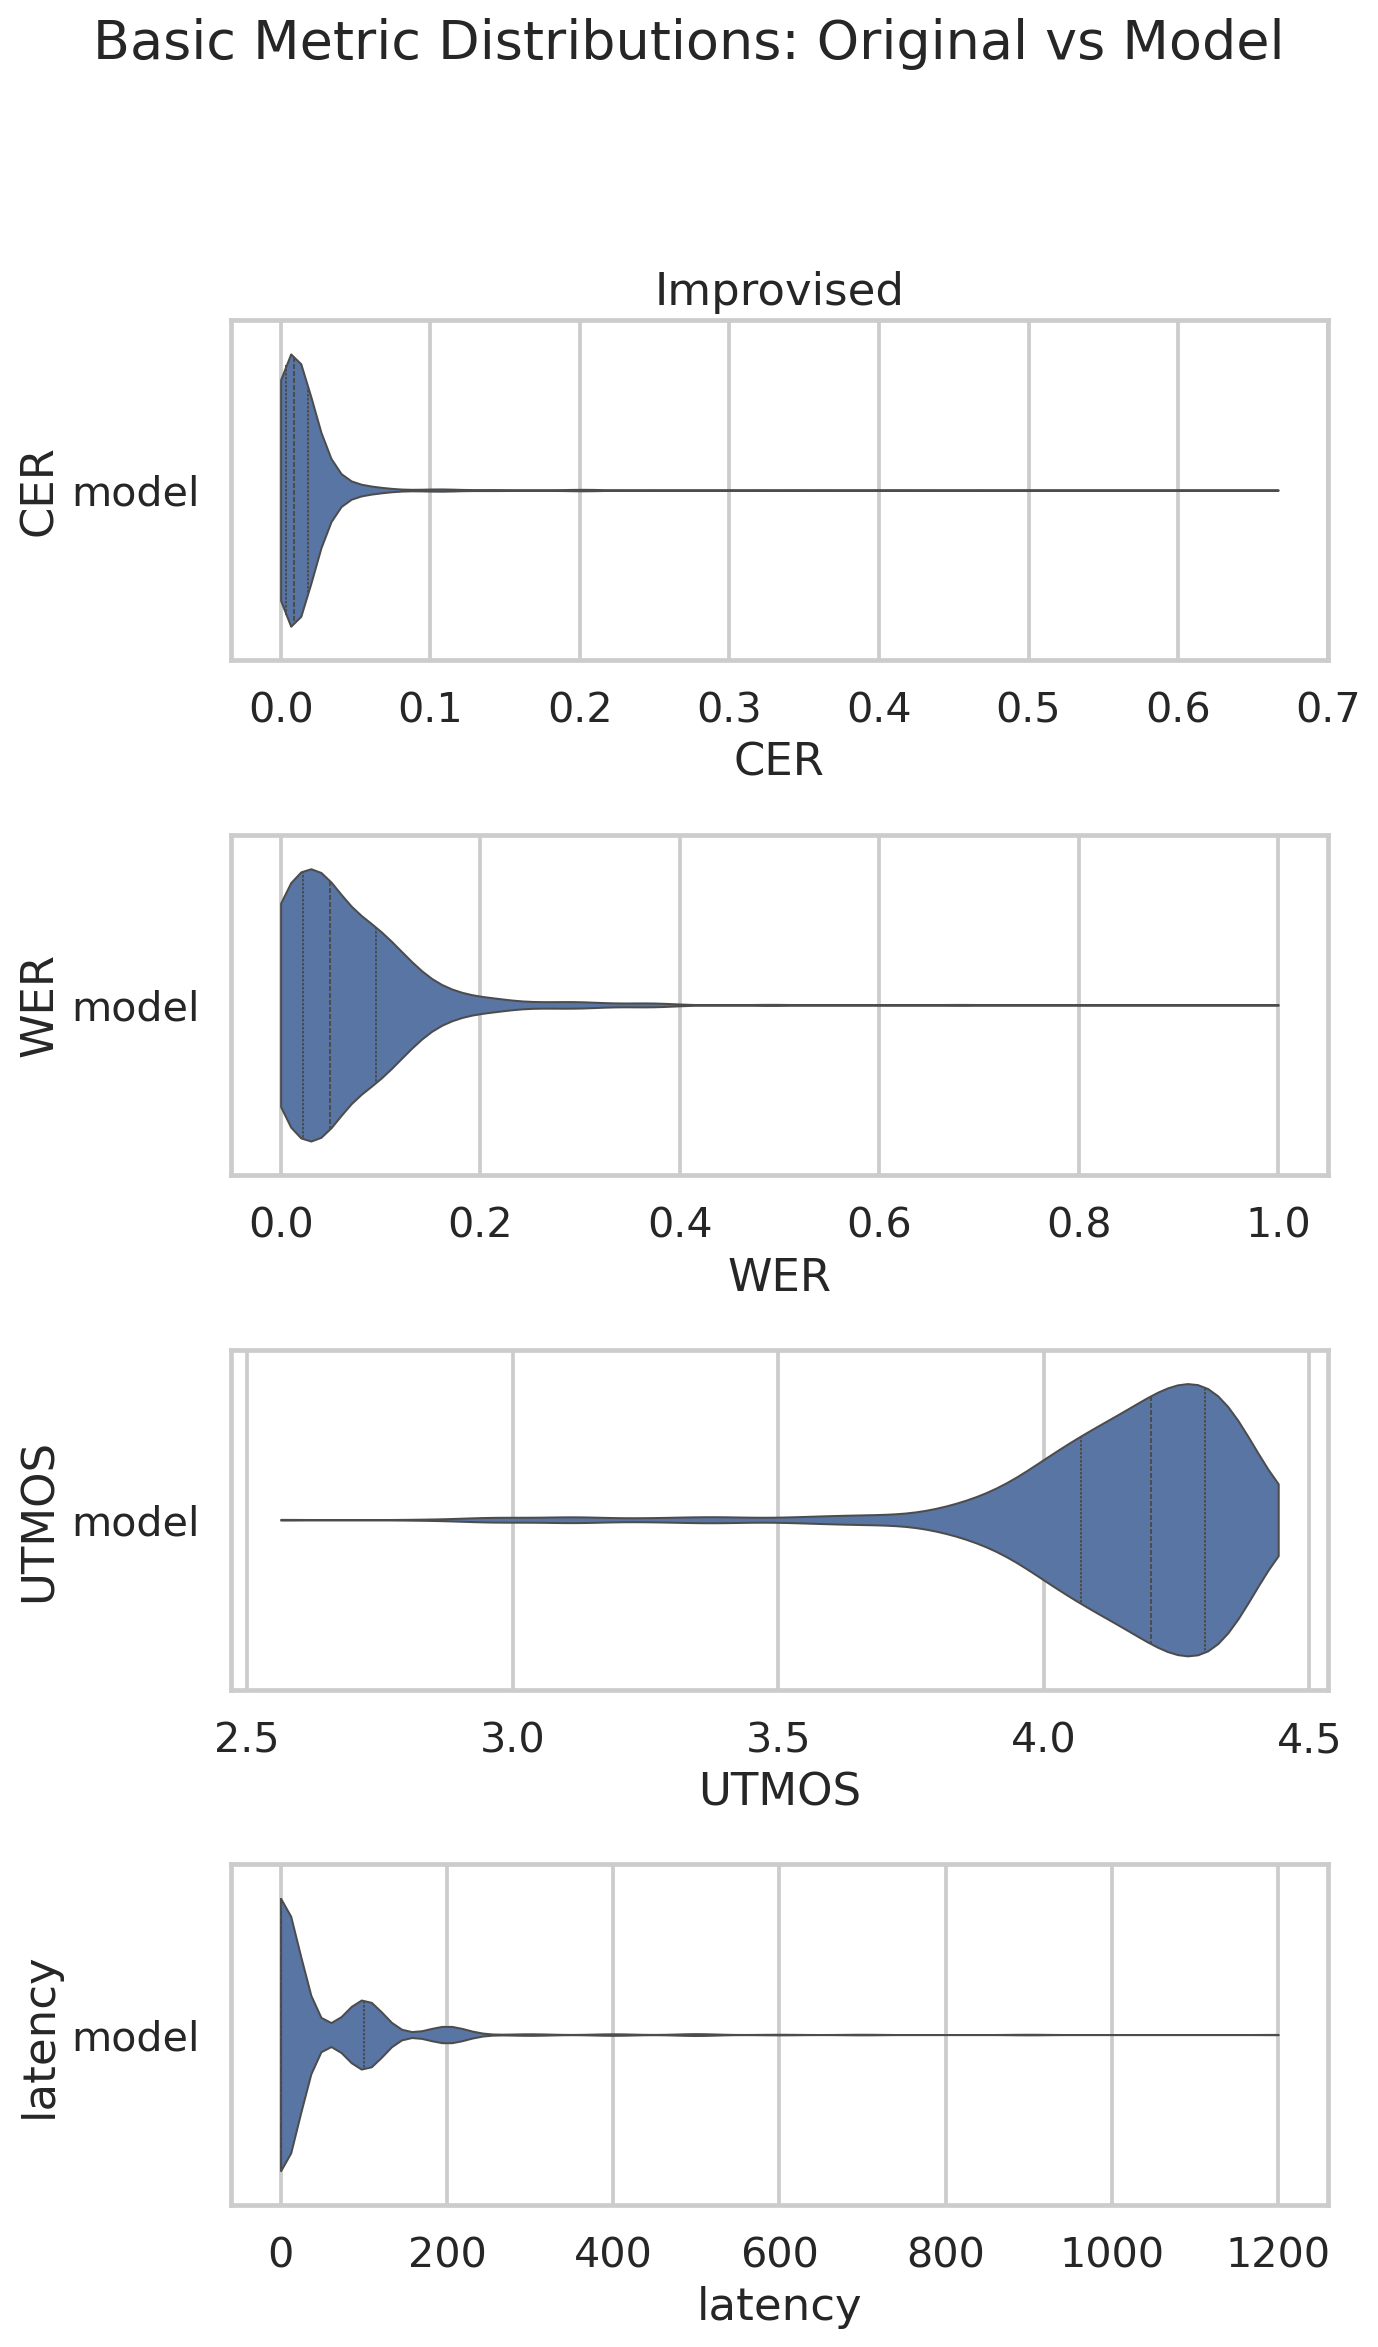
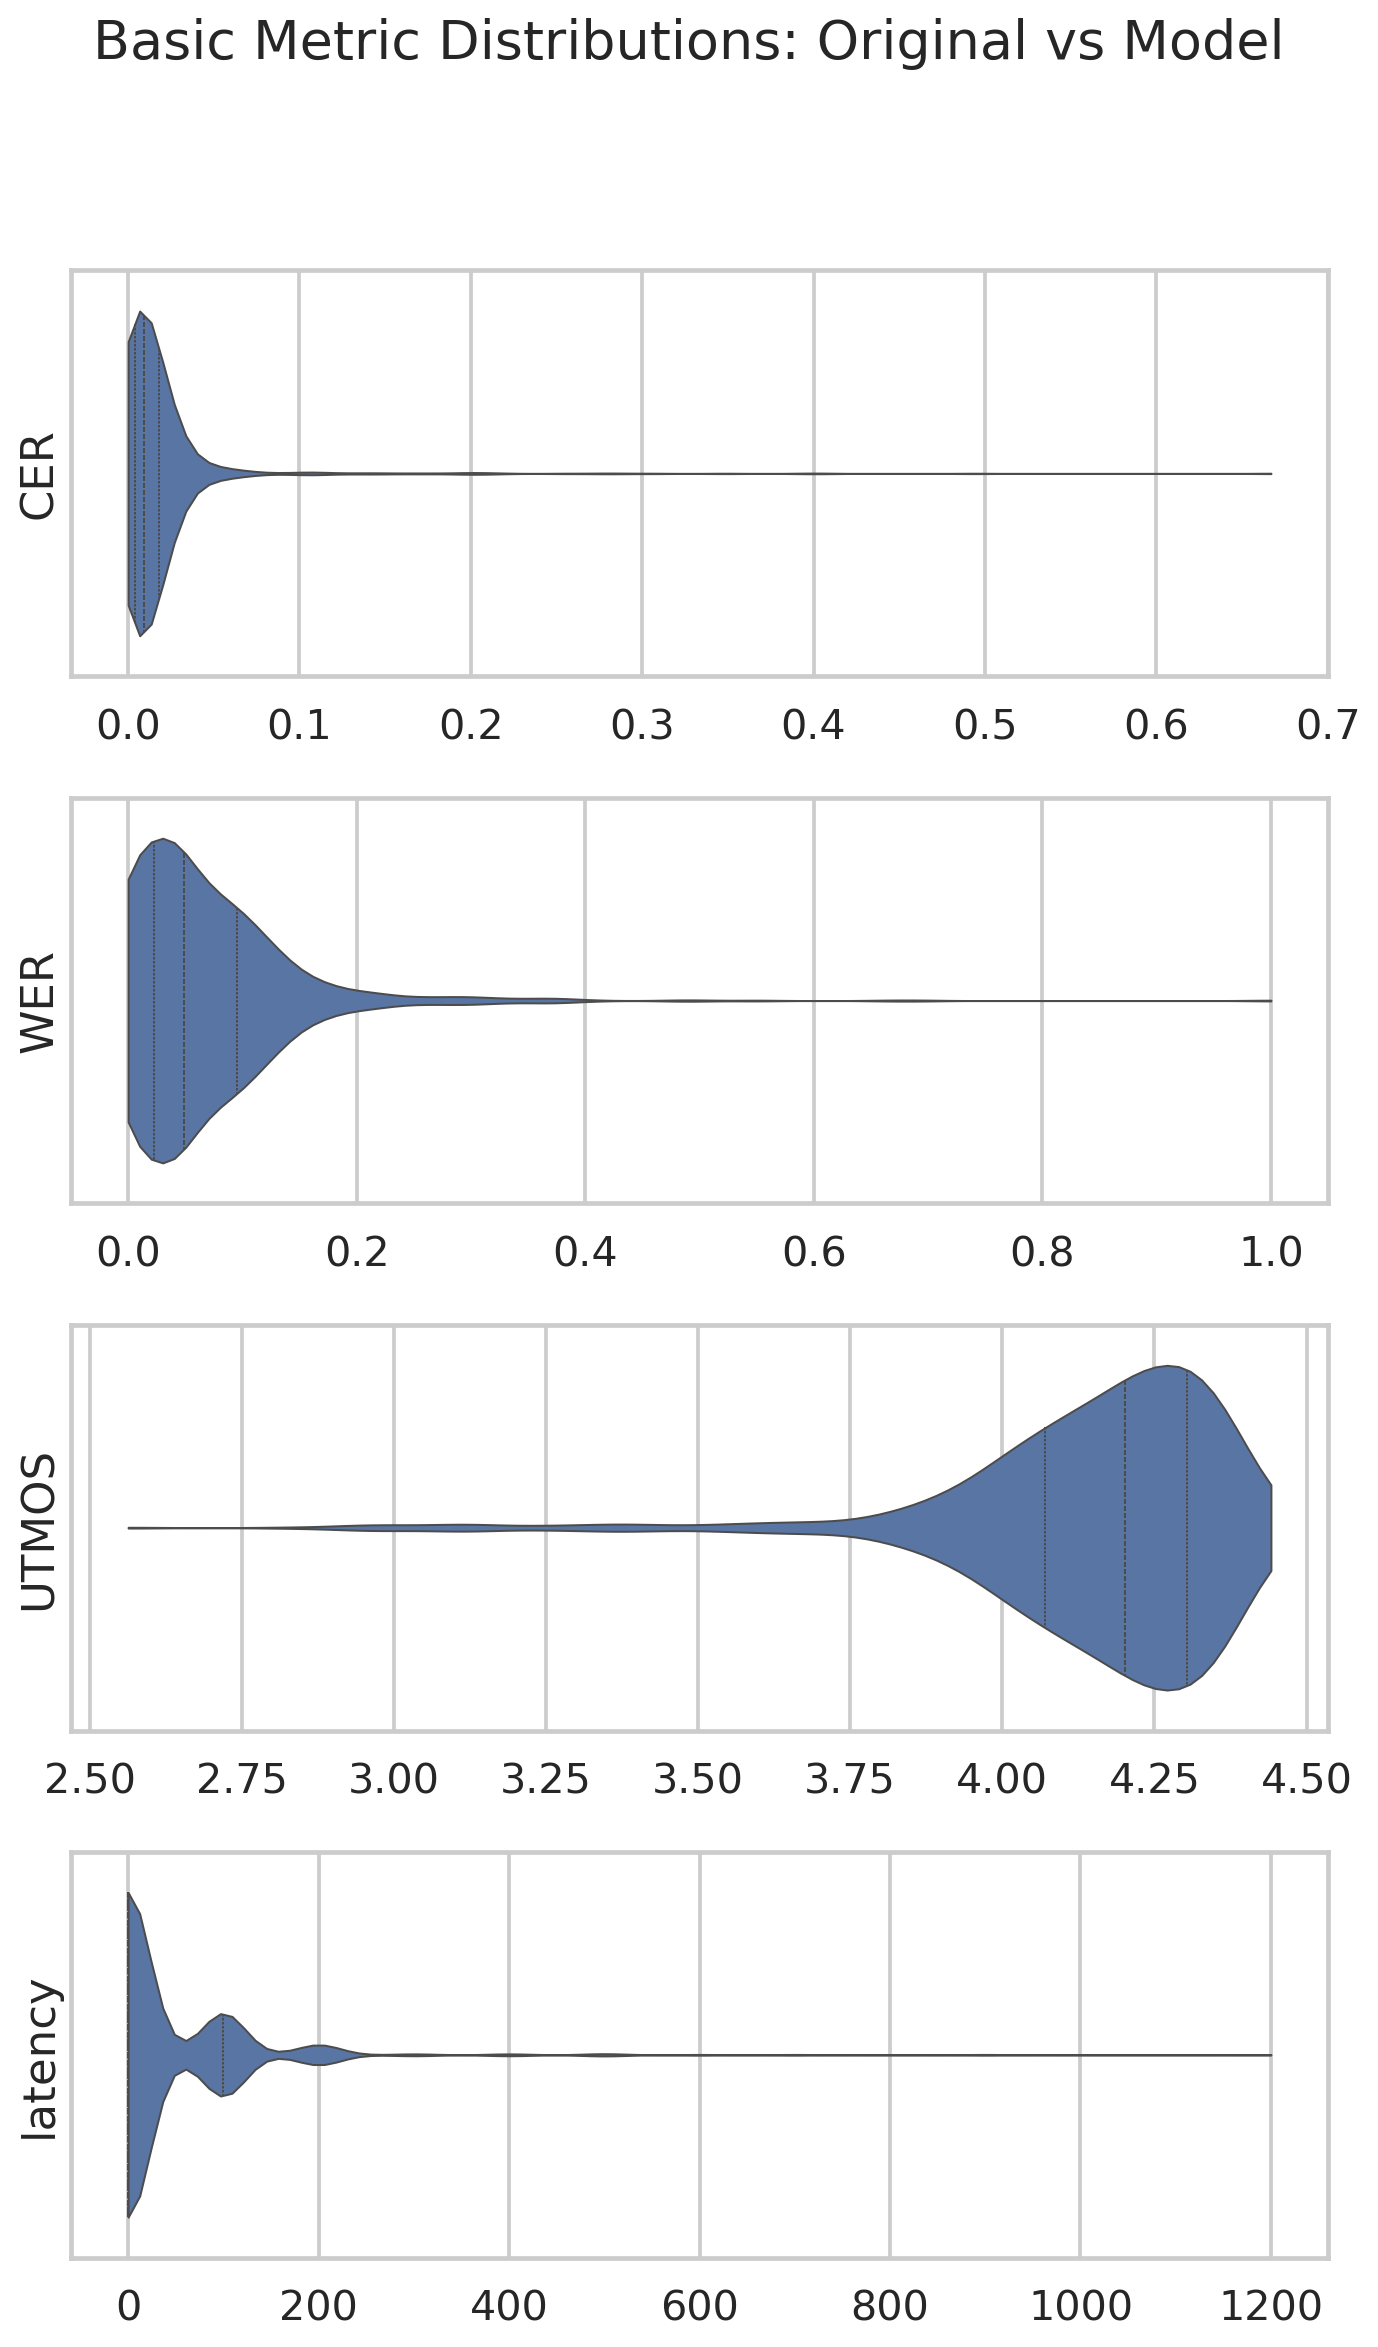
improved graphs

diff --git a/bin/reports/generate_graphs.py b/bin/reports/generate_graphs.py
@@ -181,13 +181,11 @@ def graph_basic_metrics_violin(results_root: Path, model: str, output_path: Path
                 legend_handles, legend_labels = handles, labels
             if ax.get_legend() is not None:
                 ax.get_legend().remove()
-            if row_idx == 0:
-                ax.set_title(subset.title())
-            ax.set_xlabel(metric)
+            ax.set_title("")
+            ax.set_xlabel("")
             ax.set_ylabel(metric if col_idx == 0 else "")
-            if col_idx != 0:
-                ax.set_yticks([])
-                ax.tick_params(axis="y", left=False, labelleft=False)
+            ax.set_yticks([])
+            ax.tick_params(axis="y", left=False, labelleft=False)
 
     if legend_handles:
         fig.legend(legend_handles, legend_labels, title="Dataset", loc="upper center", ncol=2, bbox_to_anchor=(0.5, 1.01))
@@ -254,10 +252,8 @@ def graph_stances(results_root: Path, model: str, output_path: Path) -> None:
     frame["score_llm"] = numeric(frame["score_llm"])
     questions = list(range(10))
 
-    fig, axes = plt.subplots(2, 5, figsize=(24, 10), sharex=True, sharey=True)
+    fig, axes = plt.subplots(2, 5, figsize=(24, 9), sharex=True, sharey=True)
     axes_flat = axes.ravel()
-    legend_handles = None
-    legend_labels = None
     for ax, qidx in zip(axes_flat, questions):
         sub = frame[frame["question_index"] == qidx]
         plot_rows = []
@@ -267,31 +263,22 @@ def graph_stances(results_root: Path, model: str, output_path: Path) -> None:
         if plot_rows:
             plot_data = pd.concat(plot_rows, ignore_index=True).dropna(subset=["score"])
             if not plot_data.empty:
-                sns.violinplot(
+                sns.histplot(
                     data=plot_data,
                     x="score",
-                    y="dataset",
                     hue="dataset",
-                    orient="h",
-                    inner="quartile",
-                    cut=0,
-                    linewidth=0.8,
-                    density_norm="width",
+                    bins=np.arange(-2.5, 3.6, 1.0),
+                    stat="probability",
+                    multiple="dodge",
+                    shrink=0.8,
+                    common_norm=False,
                     ax=ax,
                 )
-                handles, labels = ax.get_legend_handles_labels()
-                if handles and legend_handles is None:
-                    legend_handles, legend_labels = handles, labels
-                if ax.get_legend() is not None:
-                    ax.get_legend().remove()
         ax.set_title(f"Q{qidx}")
         ax.set_xlabel("STANCE score")
-        ax.set_ylabel("")
-        ax.set_xlim(-2.2, 2.2)
-    if legend_handles:
-        fig.legend(legend_handles, legend_labels, title="Dataset", loc="upper center", ncol=2, bbox_to_anchor=(0.5, 1.01))
-    fig.suptitle("STANCE Score Distributions: Original vs Model", y=1.04)
-    fig.tight_layout(rect=(0, 0, 1, 0.98))
+        ax.set_ylabel("Probability")
+    fig.suptitle("STANCE Score Distributions: Original vs Model", y=1.02)
+    fig.tight_layout()
     output_path.parent.mkdir(parents=True, exist_ok=True)
     fig.savefig(output_path, dpi=180, bbox_inches="tight")
     plt.close(fig)
